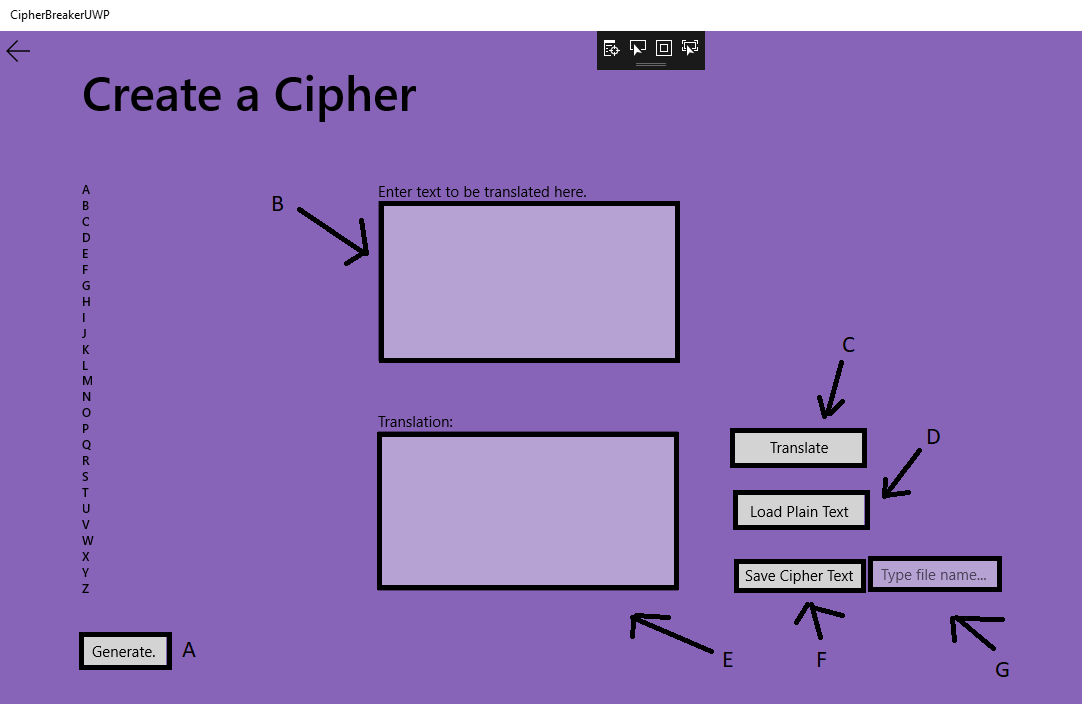
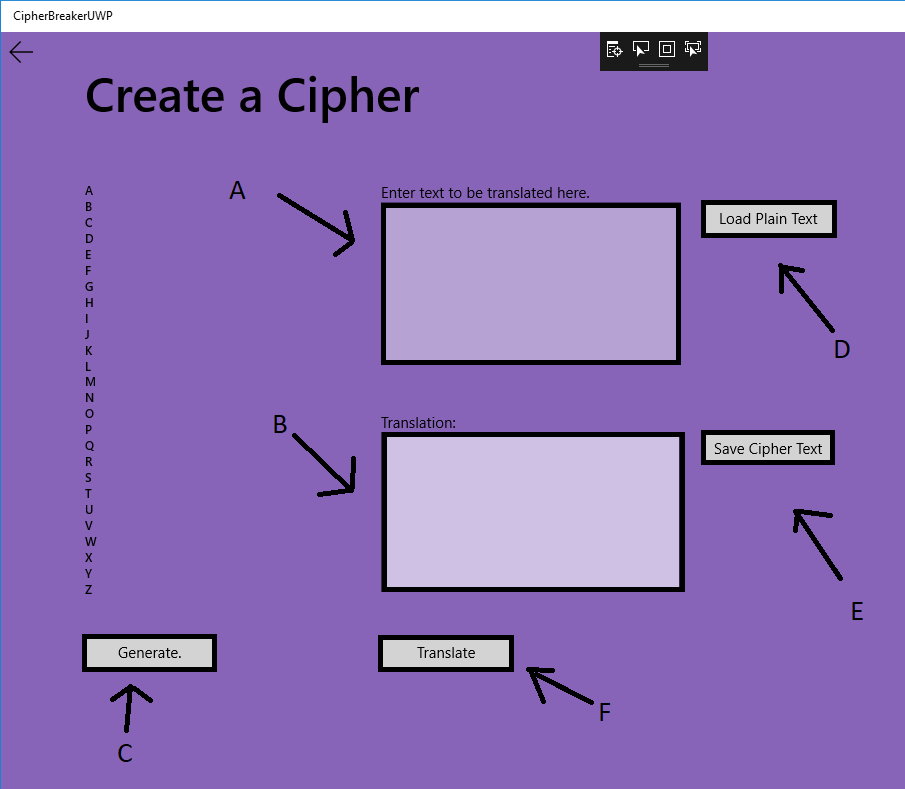
made progress on report

diff --git a/ProjectReport/ProjectReport.html b/ProjectReport/ProjectReport.html
@@ -2,6 +2,7 @@
 <html>
   <head>
     <style type="text/css">
+      html { font-size: 12pt}
       .indented {padding-left: 50pt; padding-right: 50pt;}
     </style>
   </head>
@@ -80,28 +81,68 @@
         <p>
           For this User's Manual, I will give a broad explanation of each feature and how to properly use the aforementioned feature. As features are added, this section will updated accordingly.
         </p>
-        <img src="images/createACipher.png" width="50%">
+        <img src="images/createACipher.png" width="75%">
         <p>
           <b>1. Generate a single-letter substitution cipher key:</b>
           When the application loads there are two buttons. Click on the button that reads "Create a Cipher."
           <p class="indented"> <img src="images/createCipherPage.png" width="75%"></p>
-          <p class="indented"><b>A. Generate button:</b> Click here to generate a newly randomized cipher key. Feel free to keep clicking til you get one you like! </p>
-          <p class="indented"><b>B. Manually enter plain text to be ciphered:</b> If you would like to manually type or copy-paste text in to this field, be my guest. Note: Punctuation and capitalization are ignored during enryption. </p>
-          <p class="indented"><b>C. Translate text using the generated cipher key:</b> Click this button to see the text entered above be encryted into cipher text using the cipher key that you generated. If you did not generate a cipher key prior to clicking this button you will receive an error message that tells you to generate a key first.</p>
+          <p class="indented"><b>A. Manually enter plain text to be ciphered:</b> If you would like to manually type or copy-paste text in to this field, be my guest. Note: Punctuation and capitalization are ignored during enryption. </p>
+          <p class="indented"><b>B. Translation appears here:</b> The result of your encrypted text appears in this text box.</p>
+          <p class="indented"><b>C. Generate button:</b> Click here to generate a newly randomized cipher key. Feel free to keep clicking til you get one you like! </p>
           <p class="indented"><b>D. Load plain text from a file:</b> If you would like to enter alot of text into the field by loading the text from a saved file you can click this button in order to choose your saved file. Note that .txt files must be coded to utf-8 and not ANSI. If you attempt to load an ANSI saved file you will receive an error message in the text box (Which you can encrypt if you would like! Fun right?)</p>
-          <p class="indented"><b>E. Translation appears here:</b> The result of your encrypted text appears in this text box.</p>
-          <p class="indented"><b>F. Save the encrypted text to a file: </b> Once you have successfully encrypted your plain text you can now save it to a file to reference later or to save to send your manifesto to the police or something. </p>
-          <p class="indented"><b>G. Type your own file name: </b> Enter the file name that you would like to save your cipher text as.
+          <p class="indented"><b>E. Save the encrypted text to a file: </b> Once you have successfully encrypted your plain text you can now save it to a file to reference later or to save to send your manifesto to the police or something. </p>
+          <p class="indented"><b>F. Translate text using the generated cipher key:</b> Click this button to see the text entered above be encryted into cipher text using the cipher key that you generated. If you did not generate a cipher key prior to clicking this button you will receive an error message that tells you to generate a key first.</p>
+          <p>Step-by-Step: To translate plain text to cipher text follow these steps.</p>
+          <ul>
+            <li>
+              Enter plain, English text into field A by either typing it manually, or by choosing a file by pressing button D (Load Plain Text). Note that the more plain text you have, the higher accuracy the results will be.
+            </li>
+            <li>
+              Generate a random cipher key by pressing button C (Generate).
+            </li>
+            <li>
+              Press button F (Translate) to translate your entered plain text with the generated cipher key. Your encoded text will be displayed in field B. 
+            </li>
+            <li>
+              Save the cipher text to a file. You will be prompted to choose the name and location of the file. The saved file will contain the cipher key at the top as well as the encoded message below.
+            </li>
+          </ul>
        </p>
        <p>
         <b>2. Decipher existing encrypted text:</b>
         When the application loads there are two buttons. Click on the button that reads "Decipher Text."
-          <p class="indented"> Next image will go here.</p>
-          <p class="indented"><b>This page has not been designed yet.</b> </p>
+          <p class="indented"> <img src="images/DecipherPage.png" width="75%"></p>
+          <p class="indented"><b>A. Cipher text input field</b> Manually enter or copy-paste cipher text here to be decrypted</p>
+          <p class="indented"><b>B. Results text output field</b> The result of the algorithm processing your cipher text will be output here. </p>
+          <p class="indented"><b>C. Decipher button</b> Press this button when you are ready to run the algorithm. Note that the time for it to run may take about a minute depending on the size of the text that has been entered into the input field.</p>
+          <p class="indented"><b>D. Load Text</b> select a file containing the cipher text. If you generated the file using this application, then it will also measure the accuracy of the solution against the cipher key stored in the file.</p>
+          <p class="indented"><b>E. Load Training Set</b> Do to odd UWP file access permissions, the user must load their own training data. I have provided one in the contents of the project, however should the user provide their own, then they must follow the same format as the existing one.</p>
+          <p>
+            Step-By-Step: To run the decryption algorithm follow these steps.
+          </p>
+          <ul>
+            <li>Enter cipher text by either typing it, copy-pasting it into the text field or selecting it from a file.</li>
+            <li>
+              Load the training set. The file name that comes with the program is DataSetBiGrams.Txt so select that file.
+            </li>
+            <li>
+              Click Decipher and wait patiently for your results. Results may vary.
+            </li>
+          </ul>
        </p>
       <h2>Design Document</h2>
         <h4>Project Design Overview</h4>
         <p> The entirety of the solution has been broken up into 5 main parts. Each file contains one class, so I will explain the primary functionality of each file and each project that is a part of the entire solution.</p>
+        <p class=><b>Terminology</b></p>
+        <p>
+           Before I start I want to add a sort-of glossary that explains the less-known terms that I will be using. Figuring this out during my research in the topic made understanding the explanations a lot more challenging.
+           <ul class="indented">
+             <li><b>Cipher Key: </b> In this case, a mapping of the alphabet where each letter is mapped to another random, unique character.</li>
+             <li><b>Chromosome: </b> a potential solution to our problem. In this case it is a cipher key that can decode the encrypted text.</li>
+             <li><b>Population: </b> a bunch of chromosomes. At the beginning of the program and at the start of each generation we will repopulate with new/fresh chromosomes.</li>
+             <li><b>N-Gram: </b> An n number of sequential letter combinations in a given word. Example: TEST has the bi-grams TE, ES, and ST and the tri-grams TES, and EST.</li>
+           </ul>
+        </p>
         <p><b>CipherBreakerUWP</b></p>        
         <p>
             This is the main entry point to the application. Every other part of the entire solution is referenced from here in order to solve a problem and display it on the screen.
@@ -109,32 +150,220 @@
         <p class="indented">
             <i>MainPage.xaml / MainPage.xaml.cs</i> : this is the homepage for the application. From here we can access the other pages and that's it.
         </p>
+        <p class="indented">
+            NavigateToCipherPage_Click - On click event that allows the user to navigate to the Cipher page.
+          </p>
+          <p class="indented">
+            NavigateToDecipherPage_Click - On click event that allows the user to navigate to the Decipher page.
+          </p>
         <img class="indented" src="images/projectOverview.png">
         <p class="indented">
             <i>CipherPage.xaml / CipherPage.xaml.cs</i> : this is the page where the creation of a cipher happens. This page contains a number of RichEditBoxes, Buttons, and TextBlocks. Each of the components is hooked up to specific functionality in the .cs page which allows us to call the CipherMaker library.
         </p>
-        <img class="indented" src="images/cipherPageOverview.png" width="50%">
+        <p class="indented">
+          CipherPage - initializes m_currentCipher to an empty dictionary, and sets CipherText field to Read-Only
+        </p>
+        <p class="indented">
+          Back_Click - navigates user back to Main Page
+        </p>
+        <p class="indented">
+          CreateCipherBtn_Click - calls CipherMaker method CreateSubCipher to create a new cipher key and displays it in a textblock.
+        </p>
+        <p class="indented">
+          btnTranslate_Click - Verifies that a cipher ket has been generated then reads text from textbox. Passes text to CipherMaker.EncodeText which encodes the entered text. Then prints the result to the screen.
+        </p>
+        <p class="indented">
+          btnLoadText_Click - allows the user to specify a file to be translated into cipher text.
+        </p>
+        <p class="indented">
+          SelectPlainTextFileAsync - gets called by btnLoadText, handles the FilePicker and verification of plain text file to be translated.
+        </p>
+        <p class="indented">
+          btnSaveCipherText_Click - saves the cipher text and cipher key to a file using the FileSavePicker mechanism
+        </p>
+        <p class="indented">
+          KeyToString - converts the generated cipher key into string format to be saved in the file.
+        </p>
+        <img class="indented" src="images/cipherPageOverview.png">
         <p class="indented">
           <i>DecipherPage.xaml / DecipherPage.xaml.cs</i> : this page is where the user can load or enter cipher text and call the genetic algorithm (called from CipherSolver library) in order to decipher the text with as much accuracy as possible.
         </p>
-        <p class="indented">image goes here.</p>
+        <p class="indented">
+          DecipherPage - sets RichEditBox to Read-Only, initializes m_trainingData and m_cipherKey
+        </p>
+        <p class="indented">
+          Back_Click - navigates user back to Main Page.
+        </p>
+        <p class="indented">
+          BtnDecipherText_Click - reads in cipher text and calls CipherSolver.Decrypt to do the heavy lifting. If the method returns us an accuracy, we print it to the screen as well as the solution.
+        </p>
+        <p class="indented">
+          BtnGetCipherText_Click - allows user to load cipher text from a file
+        </p>
+        <p class="indented">
+          BtnGetTrainingData_Click - allows user to specify desired training data
+        </p>
+        <p class="indented">
+          SelectTrainingDataAsync - handles FilePicker usage and allows user to select file from which they want their training data and then parses the data and stores it in a Dictionary
+        </p>
+        <p class="indented">
+          SelectCipherTextFileAsync - handles FilePicker usage and allows user to select a file from which contains the cipher text and possibly a cipher key
+        </p>
+        <p class="indented">
+          GetCipherKeyFromFile - parses the cipher key from the selected file if it contains one in the format set by the CipherPage saver
+        </p>
+        <img class="indented" src="images/decipherPageOverview.png">
 
         <p><b>CipherMaker</b></p>
         <p>
           This class handles the creation of cipher keys and the translation of plain text to cipher text.
         </p>
         <p>
-          Notable data structures: Dictionary&#60;char, char&#62; - this data structure is used throughout the entirety of the project as a cipher key. It is a mapping of the alphabet A-Z to random unique characters A-Z. Somtimes a letter will map to itself, but most likely it will map to a completely random letter.
+          Notable data structures: 
+        </p>
+        <p>
+          Dictionary&#60;char, char&#62; - this data structure is used throughout the entirety of the project as a cipher key. It is a mapping of the alphabet A-Z to random unique characters A-Z. Somtimes a letter will map to itself, but most likely it will map to a completely random letter.
+        </p>
+        <p>Methods: </p>
+        <p>
+          CreateSubCipher - handles the creation of the cipher key. Create list of all characters in the alphabet and randomly assign them to characters A-Z while crossing each one off as they are assigned.
+        </p>
+        <p>
+          EncodeText - converts plain text into cipher text by using a specified cipher key.
+        </p>
+        <p>
+          CleanString - ensures that the plain text passed to us contains only letters and spaces. We will not be decoding any other ASCI values.
         </p>
         <img src="images/cipherMakerOverview.png">
-
+        <p><b>CipherTrainingData</b></p>
+        <p>
+          This class acts as a separate entity from the rest of the project. Its purpose is to read in large amounts of text data and parse it into bi-grams. It is dynamic enough that you can specify a file and it will read through it and update the data txt files that already exist and increment the count of existing bi-grams and add them if they do not exist.
+        </p>
+        <p>
+          This class only has two methods. One initializes the file with data from a file and the other reads in our existing parsed dataset, adds data to it, and then saves back into the file.
+        </p>
+        <p>
+          The datasets that I found free online were the script to the series <i>The Office</i>, the script to <i>Seinfeld</i>, and the entirety of the book <i>A Tale of Two Cities</i>. I initially just started out with <i>The Office</i>, but when I realized that the accuracy of my algorithm was low I considered that I might be lacking sufficient training data. I then added <i>Seinfeld</i> to the training data and also found an algorithm that only used <i>A Tale of Two Cities</i> with great results, so I decided to add that as well.
+        </p>
+        <p>
+          Increasing the amount of data in my training data sets did not increase the accuracy by a significant amount, therefore I was able to rule that out as being a major problem in my algorithm. Especially since another person's research yielded accurate results using only one of my three data sets.
+        </p>
+        <img src="images/cipherTrainingDataOverview.png" class="indented">
         <p><b>CipherSolver</b></p>
         <p> 
-          This class has one function and that is to read cipher text and do its best to return plain text by using a genetic algorithm. Here I will explain the algorithm and the design for this feature.
-
+          This class has one function and that is to read cipher text and iterate towards a potential solution. Here I will explain the algorithm and the design for this feature.
+        </p> 
+        <p class="indented">
+          <b>Notable Data Structures</b>
         </p>
-        <p><b>CipherTrainingData</b></p>
+        <p class="indented">
+            List&#60;Dictionary&#60;string, int&#62;&#62; - this is used for our population. Each dictionary is a chromosome and the population is the list of chromosomes. 
+        </p>
+        <p class="indented">
+          Dictionary&#60;string, int&#62; - This dictionary is used for storing n-grams and their frequencies. It is used when reading the data from out data set as well as after we parse the bi-grams out of the decoded text to score them.
+        </p>
+        <p class="indented">
+          struct CipherStats - structure used for sending multiple variables back to the UWP application after being called. We send the decoded text as well as the percentage of accuracy that our algorithm achieved. 
+        </p>
+        <p class="indented">
+          HashSet&#60;chart&#62; - used for taking the top characters of each dataset to initialize chromosomes for our beginning population. I can simply keep adding characters to the HashSet and stop once it has hit 10 since it will ignore duplicate values.
+        </p>
+        <p class="indented"><b>Initial Population Creation</b></p>
+        <p class="indented"> 
+          After obtaining sufficient training data, the first step in this process is creating an initial population. Some algorithms that I found online used completely random initializations and some used a very calculated determination using frequencies of different n-grams.
+        </p>
+        <p class="indented">
+          I initially used a complete randomization of my chromosomes to add to the population. The idea being that any completely wrong solutions would quickly be removed from the population after the first scoring. What I later moved to after seeing low accuracy scores is slightly more sophisticated.
+        </p>
+        <p class="indented">
+          The method that I created, which I believe to be a reasonable medium and is in the final version of the project,takes the first 10 unique characters from the top bi-grams from the cipher text and randomly assigns them to the top first 10 unique characters from the top bi-grams from our training data. When done by hand, the top 10 characters from both had about 8 out of 10 in common with one another. Creating the chromosomes with those top 10 matching up creates a good chance that at least some of the chromosomes will have a few correct assignments right away. The remaining 16 characters are randomly assigned to one another. 
+        </p>
+        <p class="indented">
+          According to the research done by Jason Brownbridge from the University of Cape Town, a population size of 500 was enough to converge to a solution. In addition, I also saw more accurate results while using the same population, although the using a larger population such as this really slows down the speed of the program.
+        </p>
+        <p class="indented"><b>Scoring/Selection</b></p>
+        <p class="indented">
+          At this point we have now begun the genetic algorithm and we need to select the top individual chromosomes that will continue to the next generation. From what I found, the scoring algorithms used are somewhat similar across the board, so I don't believe improve the accuracy of the algorithm by a significant amount by altering this part.
+        </p>
+        <p class="indented">
+          At the end of each generation we choose the most "fit" individuals to continue to the next iteration. We do this by finding the number of occurances of bi-grams in the cipher text after decoding it with each chromosome. If a bi-gram from the decoded cipher text exists in the training data we multiply both frequences together to create a score. A more common bi-gram will yield a higher score and is more likely to be the correct option. Once we have scored each chromosome we remove the bottom 85% of chromosomes and use the remaining 15% to repopulate in place of those that we removed. 
+        </p>
+        <p class="indented"><b>Repopulation/Crossover</b></p>
+        <p class="indented">
+          During repopulation we use a strategy called crossover to take parts of our most fit chromosomes and create new chromosomes base off of them. 
+        </p>
+        <p class="indented">
+          The idea of crossover in our application involves taking two parents and passing some of their chracter mappings down in order to produce a child. The implementation of crossover that I used is fairly simple. I take two random key-value pairs from ParentX and add them to the child. I then fill the rest of the child's data in with the remaining keys from ParentY. 
+        </p>
+        <p class="indented">
+          Unfortunately this is likely to cause a problem where two keys may have the same value. I personally solved this problem by using mutation in the next step. Some other algorithms carefully chose the two parents with the criteria that this type of occurance would not happen.
+        </p>
+        <p class="indented"><b>Mutation</b></p>
+        <p class="indented">
+          Mutation is a tool to change new chromosomes in a random way. If the top population is far from the correct solution, then mutation gets us towards the correct solution. It is not a complete rewrite of a chromosome but it is a change or two that might yield higher scoring results.
+        </p>
+        <p class="indented">
+          As explained before, during crossover we run into an issue in which multiple keys point to the same character. If that is allowed to stay in a chromosome, then we have no chance at reaching a final solution. To correct that, I chose to mutate any duplicate values by randomly replacing them with any characters that are unrepresented in the values of the chromosome. This accomplishes both the task of incorporating an element of randomness to the population, and also removes any duplicate values.
+        </p>
+        <p class="indented">
+          If a chromosome does not have any duplicate values, then the algorithm chooses two random letter mappings and swaps their values in order to mix things up. Increasing the number of mutations from 1 per chromosome to 3 per chromosome also made a noticeable difference in the accuracy. 
+        </p>
+        <p class="indented">
+          By this stage, the new child has received parts of the chromosome of two parents and has also been mutated. We now add them to the population to once again be scored and compared among the most fit individuals. Should a mutation be beneficial to the chromosome we will see its score increase and remain in the population through the next iteration.
+        </p>
+        <img src="images/cipherSolverOverview.png" class="indented">
+        <p class="indented"><b>Results</b></p>
+        <p class="indented">
+          As we iterate towards a solution the scores of the chromosomes will gradually increase as we introduce more fit individuals to the population. We record the highest score and when the highest score stops increasing we count how many iterations that the score does not increase. In this algorithm, if the score does not increase for 10 generations, then we take the most fit individual of the population and claim that as our best solution.
+        </p>
+        <p>Below are two of my more accurate results. </p>
+        <img src="images/results.png">
+        </br>
+        <img src="images/results2.png">
+        </br>
+        <p>Comparison of original text to decoded text from result with 61% accuracy</p>
+        <img src="images/comparison.png" width="90%">
+        </br>
 
+        <p><b>CipherUtility</b></p>
+        <p>
+          The primary purpose of this class is to support the other libraries by removing functions that are needed across multiple libraries. This way, no code is written twice and can simply be called from this helper class. Since there is no broad overview of the functionality of this class, I will give a break down of each method.
+        </p>
+        <p class="indent">
+          GetTrainingBiGrams() - This method loads all of the bi-grams from our dataset and stores them into a dictionary for future use.
+        </p>
+        <p class="indent">
+          ParseDataSetLine() - This method is used for parsing the text loaded from the training bi-grams txt file.
+        </p>
+        <p class="indent">
+          FindnGrams() - This method accepts a string of text and parses it into all of the possible n-grams and counts the occurances of each one. You can specify n and have it return either bi-grams/tri-grams/etc. Returns a dictionary of n-grams and their respective frequencies.
+        </p>
+        <p class="indent">
+          IsEnglishLetter() - determining if a character is a letter a-z or A-Z is important when reading unkown txt files to ensure that the data we are reading in is valid for us to use. Also for determining when to start reading a word and when to stop.
+        </p>
+        <p><b>Challenges</b></p>
+        <p>
+          I faced a number of challenges while working on this project. Most of the larger changes that I made due to challenges are listed at the beginning, however here is a compilation of some of the smaller design decisions that I made along the way.      
+        </p>
+        <ul>
+          <li>
+            UWP File Access - UWP is very limited in what files it can/can not access. It is not simple in that I can just enter in a path and have it open a file. The file must be pre-approved from a list of libraries (ie Music, Pictures, Contacts, etc), or must be manually selected by the user. However, once selected by the user,it can be opened again later for future use. This resulted in using the FilePicker feature for just about all of my file access. For the most part this was fine, however the user must select which training data to use for the genetic algorithm, when this was supposed to be an aspect that is pre-determined and stored along with the program. 
+          </li>
+          <li>
+            <p>
+              Accuracy of Genetic Algorithm - This part has proven the most challenging part of the project. And expectedly so. Despite following the steps of multiple algorithms of my sources, I can not quite seem to get my algorithm to converge to an accurate solution. I did manage to improve my accuracy on my own by improving upon some of the steps that I found. 
+            </p>
+            <p>
+              For example, one algorithm that was able to converge to a solution with 98% accuracy used a completely random initial chromosome populaton. While I was not able to achieve 98% accuracy, I was able to improve upon my ~20% accuracy to a consistent 30+% accuracy. 
+            </p>
+            <p>
+              In addition, when using the crossover/mutation method from another algorithm I ran into the problem where chromosomes would have duplicate values which makes for an even less accurate result. I was able to solve this by using a similar crossover method, but by also mutating any duplicate values to ensure that they are unique. This allowed my accuracy to occasionally reach the 40+% zone. Also, playing with the number of mutations based on the number of iterations since the last score increase helped. With this method, I was able to break both 50% and 60% accuracy ratings.
+            </p>
+            <p>
+              I believe that with more fine tuning I would be able to fill in any holes with my algorithm to converge to a solution. I have some more ideas to fine tune that I plan on outlining in my Conclusion/Moving Forward section.
+            </p>
+          </li>
+        </ul>
       <h2>Summary and Conclusion</h2>
       <h2>Bibliography</h2>
   </body>
